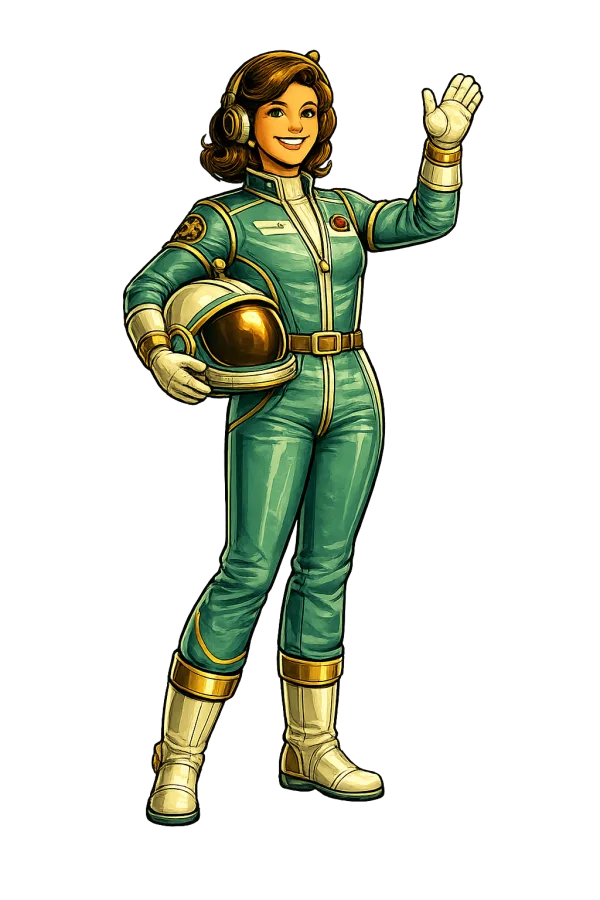
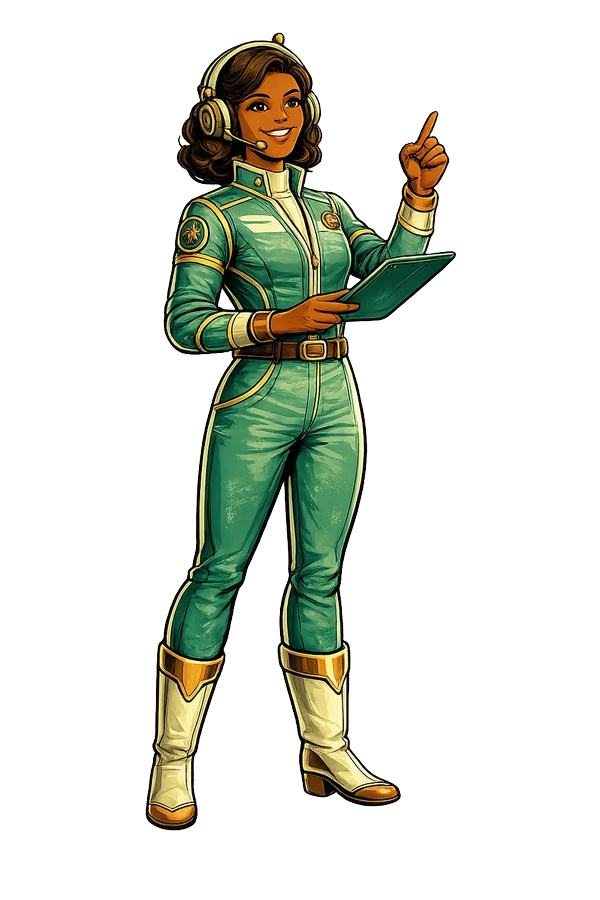
ui(marketing): put the Black analyst back in the crew row, on Sell
The Ship/Automate swap displaced her, leaving the row without her. She returns
on Sell, which is the slot that fits: her headset with a boom mic reads as a
call in progress, and Sell's claim is CRM, deals, proposals and contracts.

Sell rather than Know for two reasons. Know's stylus-on-tablet already says
"reading back what we know", and putting a second tablet-and-point figure there
would have made the two middle lanes rhyme. And Sell already had a raised arm —
the previous figure was mid-wave — so the row's silhouette rhythm against
Ship's raised pen is unchanged by the swap.

Cut to the shared frame like the rest: alpha>32 bbox, 799px tall, feet at
y=831, landing 311x799 at (144, 32). Verified all five standing on one line.

The row is now four distinct people plus the service robot.

Tokens (approx): ~40k

Claude-Session: https://claude.ai/code/session_01LN3kPaGZJodcmwYTpfqw2H

Changed region(s): [[0.18, 0.0311, 0.81, 0.9333]]

diff --git a/app/(pages)/HomeClient.tsx b/app/(pages)/HomeClient.tsx
@@ -101,7 +101,7 @@ const restModules: ManifestModule[] = [
 //
 // Each figure is picked so the prop matches the work, and so the row reads as
 // distinct individuals rather than one archetype recoloured:
-//   Sell      helmet under one arm, mid-wave — the greeting
+//   Sell      headset and tablet — a call in progress, which is the job
 //   Ship      rolled plans and a pen — you draw it before you build it
 //   Serve     a service robot with a checklist, not a person: the honest
 //             illustration for the lane that includes a chatbot answering at 2am
